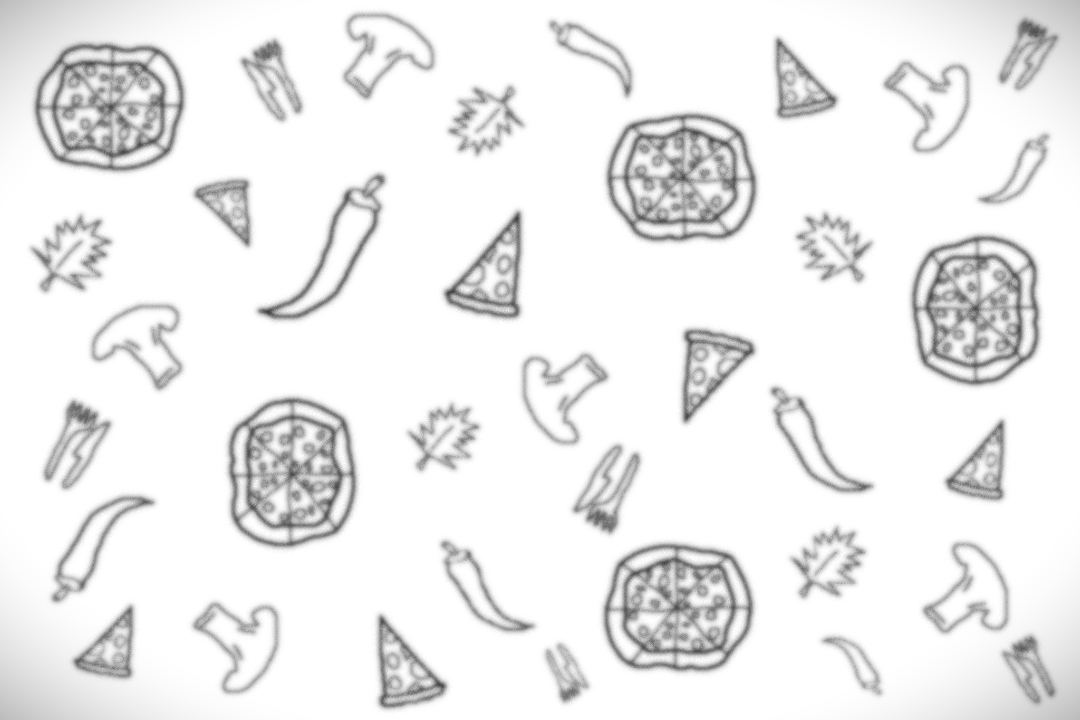
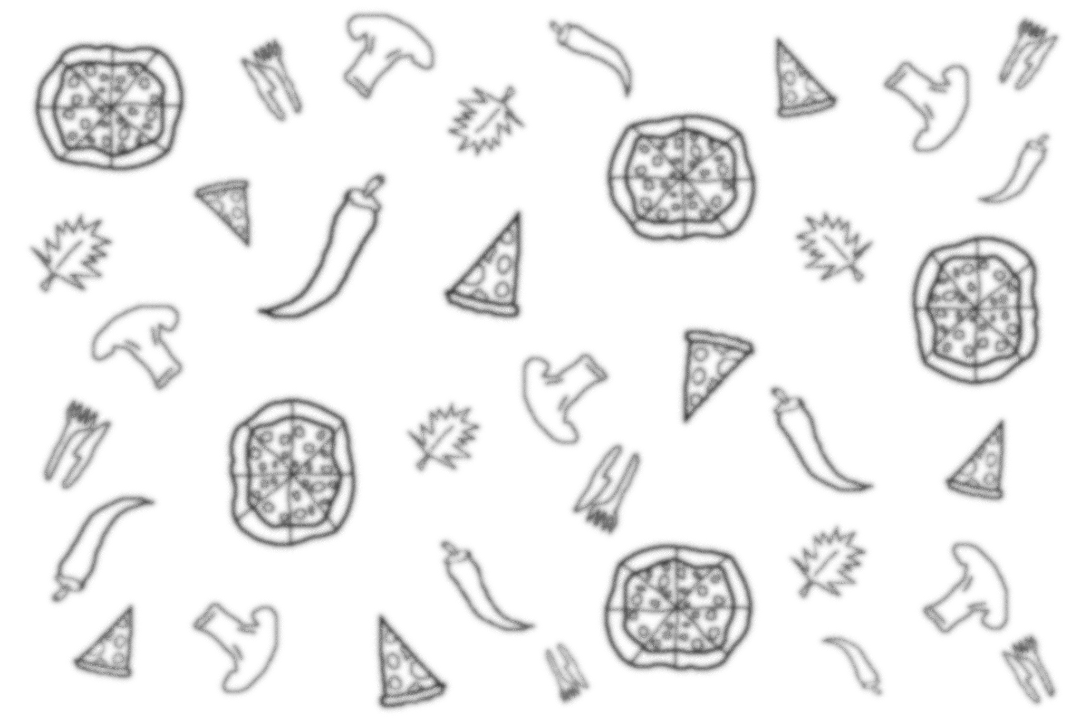
Lisan main.css-i, retsept.html-i ja taust.js-i

diff --git a/retsept.html b/retsept.html
@@ -4,36 +4,71 @@
     <meta charset="UTF-8">
     <meta name="viewport" content="width=device-width, initial-scale=1.0">
     <title>Margherita Pitsa Retsept</title>
+    <link rel="preconnect" href="https://fonts.googleapis.com">
+    <link rel="preconnect" href="https://fonts.gstatic.com" crossorigin>
+    <link href="https://fonts.googleapis.com/css2?family=Bokor&family=Fredericka+the+Great&display=swap"
+        rel="stylesheet">
     <link rel="stylesheet" href="assets/main.css">
+    <link rel="stylesheet" href="assets/retsept.css">
 </head>
+
 <body>
-    <h1>Margherita Pitsa Retsept</h1>
-    <script src="scripts/pitsaratas.js"></script>
+    <header>
+    <h1>-Margherita Pitsa Retsept-</h1>
+    </header>
+
+    <br><br><br><br><br><br><br><br>
+    
+<div class="boxv">
+    <div class="subheading">
     <h2>Koostisosad</h2>
-    <ul>
-        <li>Õhuke pitsapõhi</li>
-        <li>8-10sl tomatikaste</li>
-        <li>250g Mozzarella juust</li>
-        <li>40-50g Parmesani juust või muu kõvem juust</li>
-        <li>Oliiviõli</li>
-        <li>Värske basiilik</li>
-    </ul>
+    </div>
 
+    <div class="text">
+    <li>Õhuke pitsapõhi</li>
+    <li>2-3sl tomatikaste</li>
+    <li>50-60g Mozzarella juust</li>
+    <li>10g Parmesani juust või muu kõvem juust</li>
+    <li>Oliiviõli</li>
+    <li>Värske basiilik</li>
+    </div>
+</div>
+
+    <br><br><br><br><br><br><br><br>
+
+<div class="boxr">
+    <div class="subheading">
     <h2>Valmistamine</h2>
-    <ol>
-        <li>Määri õhukesele pitsapõhjale tomatikastet.</li>
-        <li>Rebi mozzarellast tükid ja aseta pitsale.</li>
-        <li>Puista peale riivitud parmesan.</li>
-        <li>Küpseta 250-kraadises ahjus 5-10 minutit.</li>
-        <li>Kui kasutad spetsiaalset saviplaati, aseta see külma ahju (ahju põhja).</li>
-        <li>Eelsoojenda ahi maksimaalse temperatuurini ning lase kivil ahjus vähemalt pool tundi soojeneda.</li>
-        <li>Pitsa küpsetamise ajaks alanda temperatuur 250 kraadini.</li>
-        <li>Kaunista valmis pitsa värskete basiilikulehtedega ja nirista peale head oliiviõli.</li>
-    </ol>
+    </div>
 
+    <div class="text">
+    <li>Määri õhukesele pitsapõhjale tomatikastet.</li>
+    <li>Rebi mozzarellast tükid ja aseta pitsale.</li>
+    <li>Puista peale riivitud parmesan.</li>
+    <li>Küpseta 250-kraadises ahjus 5-10 minutit.</li>
+    <li>Kui kasutad spetsiaalset saviplaati, aseta see külma ahju (ahju põhja).</li>
+    <li>Eelsoojenda ahi maksimaalse temperatuurini ning lase kivil ahjus vähemalt pool tundi soojeneda.</li>
+    <li>Pitsa küpsetamise ajaks alanda temperatuur 250 kraadini.</li>
+    <li>Kaunista valmis pitsa värskete basiilikulehtedega ja nirista peale head oliiviõli.</li>
+    </div>
+</div>
+
+    <br><br><br><br><br><br><br><br>
+
+<div class="boxv">
+    <div class="subheading">
     <h2>Nipid ja soovitused</h2>
-    <p>
-        Kasuta valmispõhjasid. Tomatikaste valmistamiseks püreesta köögikombainis kurnatud konservitud ploomtomatid, lisa veidi soola ja oliiviõli - ongi kaste valmis.
-    </p>
+    </div>
+
+    <div class="text">
+    <p>Kasuta valmispõhjasid.</p>
+    <p>Tomatikastme valmistamiseks püreesta köögikombainis kurnatud konservitud ploomtomatid, lisa veidi soola ja oliiviõli - ongi kaste valmis.</p>
+    </div>
+</div>
+
+    <br><br><br><br>
+
+    <script src="scripts/taust.js"></script>
+    <script src="scripts/pitsaratas.js"></script>
 </body>
 </html>

diff --git a/assets/retsept.css b/assets/retsept.css
@@ -1,0 +1,50 @@
+header {
+    width: 100%;
+    height: 6em;
+    display: flex;
+    justify-content: center;
+    align-items: center;
+    font-size: 3vh;
+    color: #333;
+    font-family: "Fredericka the Great", serif;
+    font-weight: 400;
+    font-style: normal;
+}
+
+.subheading {
+    width: 100%;
+    height: 3em;
+    display: flex;
+    justify-content: center;
+    align-items: center;
+    font-size: 3vh;
+    color: #333;
+    font-family: "Fredericka the Great", serif;
+    font-weight: 400;
+    font-style: normal;
+}
+
+.text {
+    text-align: center;
+    font-size: 2vh;
+    margin-top: 1vh;
+    font-family: "Bokor", serif;
+
+}
+
+.boxv {
+    width: 55%;
+    background-color: #edd4b6;
+    padding: 15px 0;
+    text-align: center;
+    position: relative;
+}
+
+.boxr {
+    width: 55%;
+    background-color: #edd4b6;
+    padding: 15px 0;
+    text-align: center;
+    position: relative;
+    right: -45%
+}

diff --git a/scripts/taust.js b/scripts/taust.js
@@ -1,0 +1,7 @@
+document.addEventListener('DOMContentLoaded', () => {
+    window.addEventListener('scroll', () => {
+        let scrollPosition = window.scrollY * 0.5;
+        document.documentElement.style.setProperty('--scroll-offset', `${scrollPosition}px`);
+    });
+});
+

diff --git a/assets/main.css b/assets/main.css
@@ -1,3 +1,9 @@
 :root {
+    --scroll-offset: 0px;
     background: repeat url("PitsaTaust.png");
+    background-repeat: repeat;
+    background-size: auto;
+    background-position: center var(--scroll-offset);
+    will-change: background-position;
+    height: 100%;
 }
